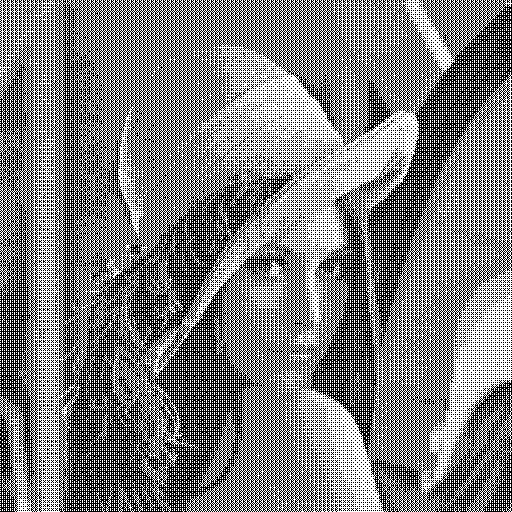
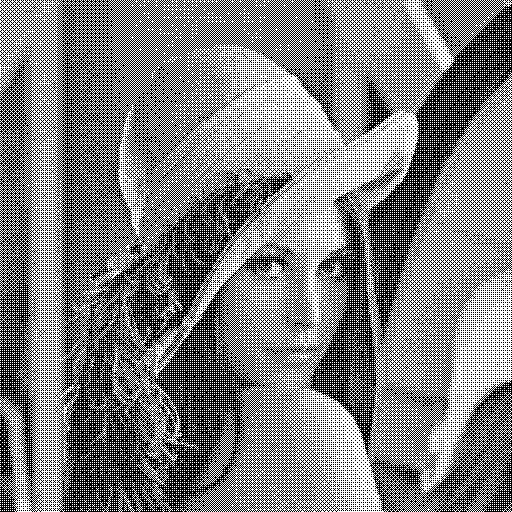
Fix comp graphics task 2

diff --git a/computer-graphics/task2/main.rs b/computer-graphics/task2/main.rs
@@ -34,10 +34,10 @@ fn pixel_random_dither(src: image::Rgba<u8>) -> image::Rgba<u8> {
 
 fn pixel_ordered_dither(src: image::Rgba<u8>, x: u32, y: u32) -> image::Rgba<u8> {
     let threshold = [
-        [1.0 / 17.0, 9.0 / 12.0, 3.0 / 17.0, 11.0 / 17.0],
-        [13.0 / 17.0, 5.0 / 12.0, 15.0 / 17.0, 7.0 / 17.0],
-        [4.0 / 17.0, 12.0 / 12.0, 2.0 / 17.0, 10.0 / 17.0],
-        [16.0 / 17.0, 8.0 / 12.0, 14.0 / 17.0, 6.0 / 17.0],
+        [1.0 / 17.0, 9.0 / 17.0, 3.0 / 17.0, 11.0 / 17.0],
+        [13.0 / 17.0, 5.0 / 17.0, 15.0 / 17.0, 7.0 / 17.0],
+        [4.0 / 17.0, 12.0 / 17.0, 2.0 / 17.0, 10.0 / 17.0],
+        [16.0 / 17.0, 8.0 / 17.0, 14.0 / 17.0, 6.0 / 17.0],
     ];
     pixel_apply_threshold(src, (threshold[(x % 4) as usize][(y % 4) as usize] * 256.0) as u8)
 }
